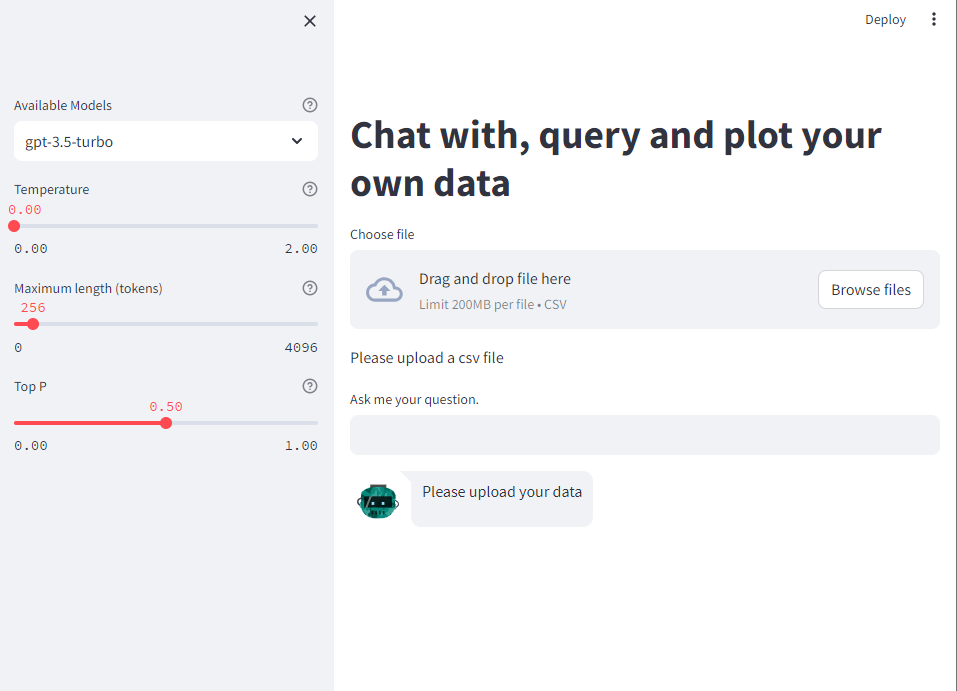
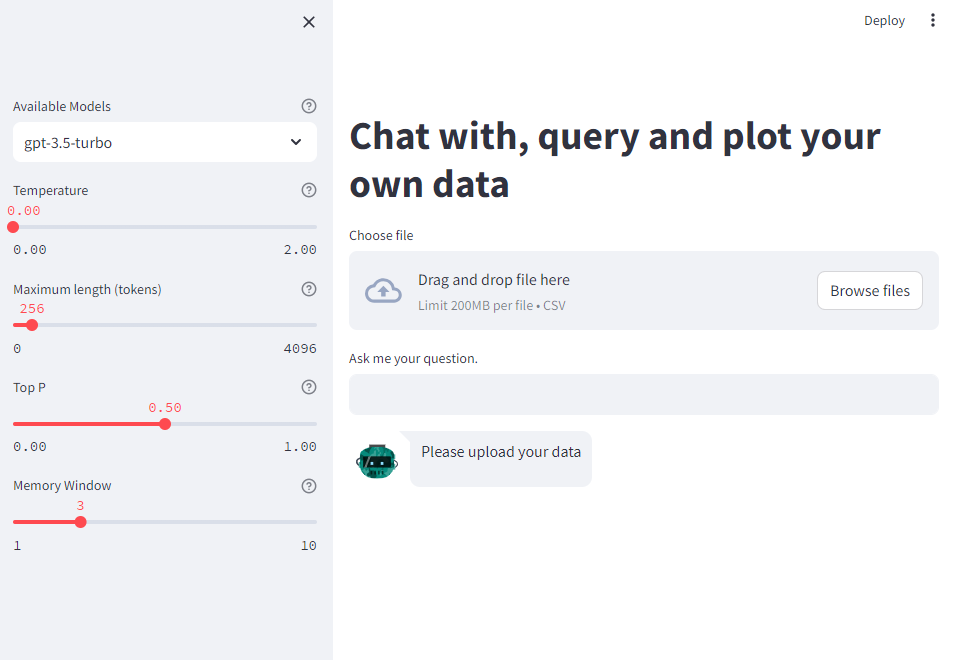
fixes and updates

diff --git a/_posts/2023-09-30-chatgpt-chatbot-and-plot-own-data.md b/_posts/2023-09-30-chatgpt-chatbot-and-plot-own-data.md
@@ -15,7 +15,7 @@ In this article, I go on and create an app for interacting with our own data (up
 
 *Disclaimer: The proposed solution is for demostration purposes. It has not been fully tested and there will be cases and datasets where it breaks. Use it with caution and adapt it accordingly.*
 
-First, I created a simple chatbot, following [previous work](https://giasemidis.github.io/2023/05/29/chatgpt-chatbox-assistant.html) and the chatbot built for [part I](https://giasemidis.github.io/2023/09/30/chatgpt-chatbot-and-plot.html). Here is a screenshot of the landing page.
+First, I created a simple chatbot, following [previous work](https://giasemidis.github.io/2023/05/29/chatgpt-chatbox-assistant.html) and the chatbot built for [part I](https://giasemidis.github.io/2023/09/30/chatgpt-chatbot-and-plot.html). The `Memory window` parameter controls the size of history messages that is kept for context. Here is a screenshot of the landing page.
 
 ![landingpage](https://raw.githubusercontent.com/giasemidis/giasemidis.github.io/master/_posts/figures/chatgpt-owndata-landpage.png)
 
@@ -173,7 +173,7 @@ Each call to the LLM is limited by the maximum number of tokens. As the queries 
 
 Also, I rarely found that some questions do not return the correct result if they are asked after multiple other questions. The reason is that the history of messages also feeds into the LLM and the LangChain agent, creating noise to the latter. If the same question is asked in the beginning of teh chat, the correct result is returned, due to the limited history and noise.
 
-A solution to the these problems is to keep only the last 3 user queries and their responses in the chat history that feeds into the chat API.
+A solution to the these problems is to keep only the last N, where N is 2 or 3, user queries and their responses in the chat history that feeds into the chat API, see the `Memory window` parameter.
 
 # Conclusion
 
